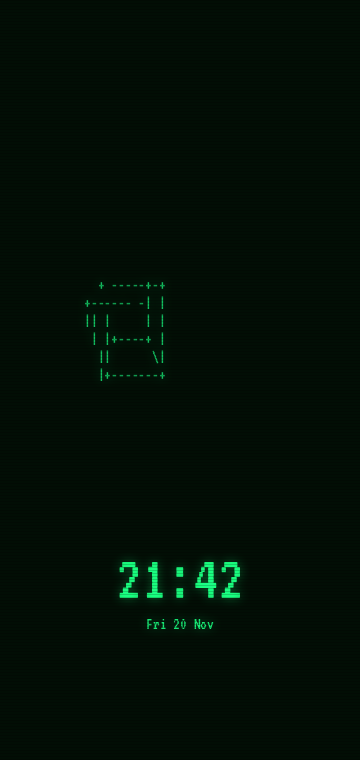
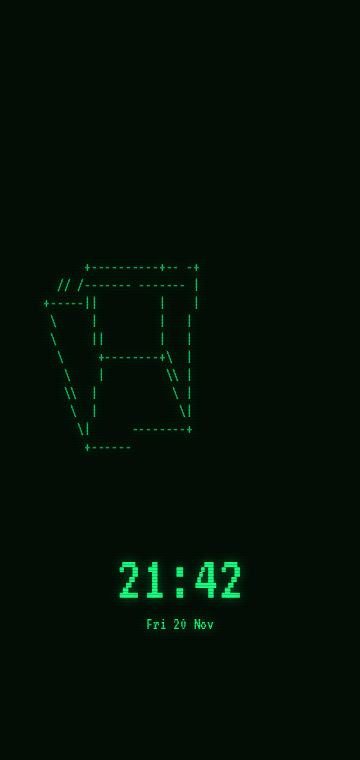
Life keeps moving with gliders; denser rain; gallery images

diff --git a/app/src/main/java/com/asnidev/sysreadout/cover/AsciiAnim.kt b/app/src/main/java/com/asnidev/sysreadout/cover/AsciiAnim.kt
@@ -22,6 +22,8 @@ object AsciiAnim {
     /** Frames per second each look is drawn at; the battery cost follows. */
     const val FPS = 10
     private const val LIFE_STEP_MS = 200L
+    private const val GLIDER_EVERY = 12
+    private val GLIDER = listOf(1 to 0, 2 to 1, 0 to 2, 1 to 2, 2 to 2)
 
     /** Density ramp, dark to bright. */
     private const val RAMP = " .:-=+*#%@"
@@ -64,9 +66,18 @@ object AsciiAnim {
 
     /** Conway's Life from a seed that changes every minute, five generations a second. */
     fun life(d: CoverData, ms: Long): CoverFrame {
-        val gen = (ms % 60_000L) / LIFE_STEP_MS
-        var grid = Array(H) { y -> BooleanArray(W) { x -> hash(x + y * W, d.now.minute + 7) > 0.68 } }
-        repeat(gen.toInt()) { grid = step(grid) }
+        val gen = ((ms % 60_000L) / LIFE_STEP_MS).toInt()
+        var grid = Array(H) { y -> BooleanArray(W) { x -> hash(x + y * W, d.now.minute + 7) > 0.6 } }
+        for (g in 0 until gen) {
+            // A glider dropped in every couple of seconds, so the board never settles into still blocks.
+            if (g % GLIDER_EVERY == GLIDER_EVERY - 1) {
+                val n = g / GLIDER_EVERY
+                val gx = (hash(n, d.now.minute + 31) * W).toInt()
+                val gy = (hash(n, d.now.minute + 47) * H).toInt()
+                GLIDER.forEach { (dx, dy) -> grid[(gy + dy) % H][(gx + dx) % W] = true }
+            }
+            grid = step(grid)
+        }
         val rows = Array(H) { y -> CharArray(W) { x -> if (grid[y][x]) 'o' else ' ' } }
         return withClock(rows, d)
     }
@@ -110,7 +121,7 @@ object AsciiAnim {
     fun rain(d: CoverData, ms: Long): CoverFrame {
         val rows = grid()
         val t = ms / 1000.0
-        for (i in 0 until 26) {
+        for (i in 0 until 40) {
             val x = (hash(i, 11) * W).toInt()
             val speed = 4 + hash(i, 12) * 9
             val len = 2 + (hash(i, 13) * 4).toInt()
